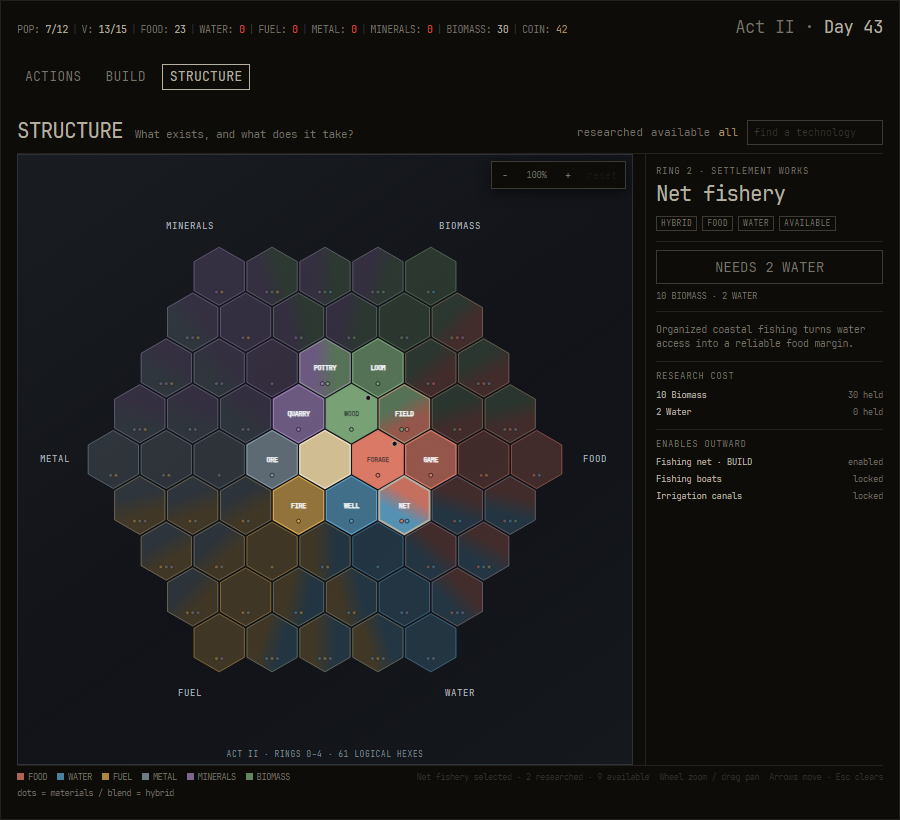
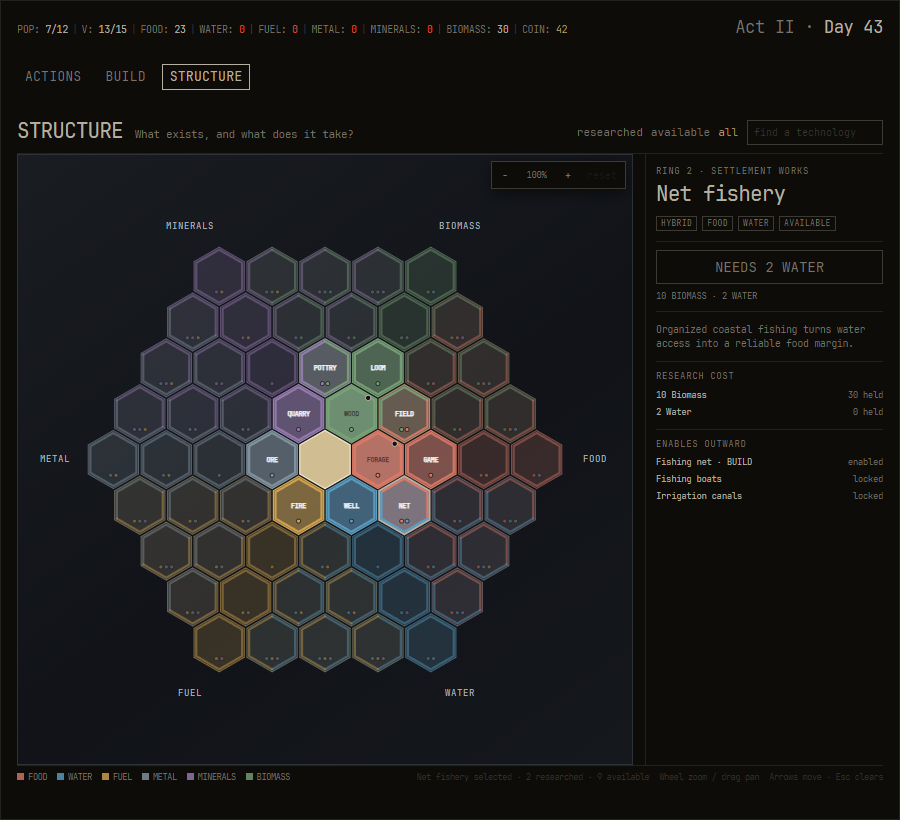
prototype: lock in hex rail design

diff --git a/prototypes/act-ii.html b/prototypes/act-ii.html
@@ -209,14 +209,13 @@
               <div class="structure-title"><h1 id="structure-title">STRUCTURE</h1><p>What exists, and what does it take?</p></div>
               <div class="board-toolbar" aria-label="Research board controls">
                 <div class="control-group" data-board-filter-group><button class="chip" type="button" aria-pressed="false" data-board-filter="researched">researched</button><button class="chip" type="button" aria-pressed="false" aria-label="Available and researched" data-board-filter="available">available</button><button class="chip" type="button" aria-pressed="true" data-board-filter="all">all</button></div>
-                <select class="hybrid-template-select" id="hybrid-template-select" aria-label="Tile rendering template"></select>
                 <input class="search-box" id="board-search" type="search" placeholder="find a technology" aria-label="Find a technology">
               </div>
             </header>
             <div class="structure-layout">
               <div class="board-pane" id="board-pane">
                 <svg class="hex-board" id="structure-board" viewBox="0 0 620 620" role="group" aria-label="Act II research board. Ring zero is a neutral foundation hex; rings one through four contain sixty technologies.">
-                  <defs id="board-defs"></defs><g id="board-camera"><g id="board-tiles"></g><g id="board-labels" aria-hidden="true"></g></g>
+                  <g id="board-camera"><g id="board-tiles"></g><g id="board-labels" aria-hidden="true"></g></g>
                 </svg>
                 <div class="board-view-controls" role="group" aria-label="Board zoom and pan controls"><button class="board-view-button" type="button" data-board-zoom-out aria-label="Zoom out">-</button><output class="board-zoom-level" id="board-zoom-level" aria-label="Board zoom" aria-live="polite">100%</output><button class="board-view-button" type="button" data-board-zoom-in aria-label="Zoom in">+</button><button class="board-view-button reset" type="button" data-board-reset aria-label="Reset board pan and zoom">reset</button></div>
                 <div class="board-tooltip" id="board-tooltip" role="tooltip" hidden></div>
@@ -227,7 +226,7 @@
             </div>
           </section>
           <footer class="structure-footer">
-            <div class="legend-row" aria-label="Resource palette, material-reference dots, and hybrid template"><span><i class="legend-dot" style="color:var(--resource-food)"></i>FOOD</span><span><i class="legend-dot" style="color:var(--resource-water)"></i>WATER</span><span><i class="legend-dot" style="color:var(--resource-fuel)"></i>FUEL</span><span><i class="legend-dot" style="color:var(--resource-metal)"></i>METAL</span><span><i class="legend-dot" style="color:var(--resource-minerals)"></i>MINERALS</span><span><i class="legend-dot" style="color:var(--resource-biomass)"></i>BIOMASS</span><span id="hybrid-template-legend">tiles = rails all</span></div>
+            <div class="legend-row" aria-label="Resource palette and material-reference dots"><span><i class="legend-dot" style="color:var(--resource-food)"></i>FOOD</span><span><i class="legend-dot" style="color:var(--resource-water)"></i>WATER</span><span><i class="legend-dot" style="color:var(--resource-fuel)"></i>FUEL</span><span><i class="legend-dot" style="color:var(--resource-metal)"></i>METAL</span><span><i class="legend-dot" style="color:var(--resource-minerals)"></i>MINERALS</span><span><i class="legend-dot" style="color:var(--resource-biomass)"></i>BIOMASS</span></div>
             <div class="board-hints"><span id="structure-status">Select an available or researched technology</span><span>Wheel zoom / drag pan</span><span>Arrows move · Esc clears</span></div>
           </footer>
         </section>
@@ -568,14 +567,6 @@
       ];
       const eras = { 1: 'CRUDE PRODUCTION', 2: 'SETTLEMENT WORKS', 3: 'CRAFT', 4: 'EARLY INDUSTRIAL' };
       const params = new URLSearchParams(location.search);
-      const hybridTemplates = Object.freeze({
-        'rails-all': Object.freeze({ label: 'rails all', pureBody: 'muted-resource', hybridBody: 'muted-midpoint', pureRails: true, hybridRails: true }),
-        rails: Object.freeze({ label: 'rails', pureBody: 'resource', hybridBody: 'muted-midpoint', pureRails: false, hybridRails: true }),
-        blend: Object.freeze({ label: 'blend', pureBody: 'resource', hybridBody: 'gradient', pureRails: false, hybridRails: false })
-      });
-      const requestedHybridTemplate = params.get('hybrid') || 'rails-all';
-      let activeHybridTemplate = Object.hasOwn(hybridTemplates, requestedHybridTemplate) ? requestedHybridTemplate : 'rails-all';
-
       const definitions = [
         { q: 1, r: 0, name: 'Foraging', short: 'FORAGE', effect: 'Establishes Food gathering at Act II population scale without re-unlocking the personal Forage action.', cost: {}, unlocks: ['Food production'] },
         { q: 0, r: 1, name: 'Spring well', short: 'WELL', effect: 'Establishes local fresh-water production.', cost: { food: 4, biomass: 8 }, unlocks: ['Water production'] },
@@ -643,7 +634,6 @@
       ];
 
       const svg = document.querySelector('#structure-board');
-      const defs = document.querySelector('#board-defs');
       const camera = document.querySelector('#board-camera');
       const tileGroup = document.querySelector('#board-tiles');
       const labelGroup = document.querySelector('#board-labels');
@@ -653,8 +643,6 @@
       const zoomInButton = document.querySelector('[data-board-zoom-in]');
       const resetBoardButton = document.querySelector('[data-board-reset]');
       const zoomLevelOutput = document.querySelector('#board-zoom-level');
-      const hybridTemplateSelect = document.querySelector('#hybrid-template-select');
-      const hybridTemplateLegend = document.querySelector('#hybrid-template-legend');
       const detail = document.querySelector('#structure-detail');
       const statusOutput = document.querySelector('#structure-status');
       const balances = window.prototypeResources;
@@ -868,81 +856,10 @@
         };
       }
 
-      function hybridGradientId(tile) {
-        const encode = value => value < 0 ? `n${Math.abs(value)}` : `p${value}`;
-        return `hybrid-${encode(tile.q)}-${encode(tile.r)}`;
-      }
-
-      function tileFill(tile, templateName = activeHybridTemplate) {
-        const template = hybridTemplates[templateName];
-        if (!template) throw new Error(`Unknown tile template ${templateName}`);
-        const bodyMode = tile.kind === 'pure' ? template.pureBody : template.hybridBody;
-        if (bodyMode === 'resource') return resources[tile.resources[0]].color;
-        if (bodyMode === 'gradient' && tile.kind === 'hybrid') return `url(#${hybridGradientId(tile)})`;
-        if (bodyMode === 'muted-resource' && tile.kind === 'pure') return blendHexColors(resources[tile.resources[0]].color, '#555b63', 0.28);
-        if (bodyMode === 'muted-midpoint' && tile.kind === 'hybrid') {
-          const midpoint = mixHexColors(resources[tile.resources[0]].color, resources[tile.resources[1]].color);
-          return blendHexColors(midpoint, '#555b63', 0.28);
-        }
-        throw new Error(`Unsupported ${tile.kind} body mode ${bodyMode}`);
-      }
-
-      function makeGradients() {
-        tiles.filter(tile => tile.kind === 'hybrid').forEach(tile => {
-          const [firstResource, secondResource] = tile.resources;
-          const radialX = tile.x - center.x;
-          const radialY = tile.y - center.y;
-          const radialLength = Math.hypot(radialX, radialY);
-          const tangentX = -radialY / radialLength;
-          const tangentY = radialX / radialLength;
-          const gradient = node('linearGradient', {
-            id: hybridGradientId(tile),
-            gradientUnits: 'userSpaceOnUse',
-            x1: (tile.x - tangentX * visibleHexSize).toFixed(2),
-            y1: (tile.y - tangentY * visibleHexSize).toFixed(2),
-            x2: (tile.x + tangentX * visibleHexSize).toFixed(2),
-            y2: (tile.y + tangentY * visibleHexSize).toFixed(2),
-            'data-first-resource': resources[firstResource].key,
-            'data-second-resource': resources[secondResource].key
-          });
-          gradient.append(
-            node('stop', { offset: '0%', 'stop-color': resources[firstResource].color }),
-            node('stop', { offset: '32%', 'stop-color': resources[firstResource].color }),
-            node('stop', { offset: '50%', 'stop-color': mixHexColors(resources[firstResource].color, resources[secondResource].color) }),
-            node('stop', { offset: '68%', 'stop-color': resources[secondResource].color }),
-            node('stop', { offset: '100%', 'stop-color': resources[secondResource].color })
-          );
-          defs.append(gradient);
-        });
-      }
-
-      function setHybridTemplate(name, updateUrl = true) {
-        if (!Object.hasOwn(hybridTemplates, name)) return false;
-        activeHybridTemplate = name;
-        svg.dataset.hybridTemplate = name;
-        svg.dataset.hybridRails = String(hybridTemplates[name].hybridRails);
-        svg.dataset.pureRails = String(hybridTemplates[name].pureRails);
-        tiles.filter(tile => tile.shape).forEach(tile => tile.shape.setAttribute('fill', tileFill(tile, name)));
-        hybridTemplateSelect.value = name;
-        hybridTemplateLegend.textContent = `tiles = ${hybridTemplates[name].label}`;
-        if (updateUrl) {
-          const nextUrl = new URL(location.href);
-          nextUrl.searchParams.set('hybrid', name);
-          history.replaceState(null, '', nextUrl);
-        }
-        dispatchEvent(new CustomEvent('prototype-hybrid-template-changed', { detail: { name } }));
-        return true;
-      }
-
-      function setupHybridTemplateControl() {
-        Object.entries(hybridTemplates).forEach(([name, template]) => {
-          const option = document.createElement('option');
-          option.value = name;
-          option.textContent = template.label;
-          hybridTemplateSelect.append(option);
-        });
-        hybridTemplateSelect.addEventListener('change', () => setHybridTemplate(hybridTemplateSelect.value));
-        setHybridTemplate(activeHybridTemplate, false);
+      function tileFill(tile) {
+        if (tile.kind === 'pure') return blendHexColors(resources[tile.resources[0]].color, '#555b63', 0.28);
+        const midpoint = mixHexColors(resources[tile.resources[0]].color, resources[tile.resources[1]].color);
+        return blendHexColors(midpoint, '#555b63', 0.28);
       }
 
       function drawBackdrop() {
@@ -953,9 +870,6 @@
           label.textContent = resources[resource].name.toUpperCase();
           labelGroup.append(label);
         }
-        const rim = node('text', { class: 'rim-label', x: center.x, y: 612 });
-        rim.textContent = 'ACT II · RINGS 0–4 · 61 LOGICAL HEXES';
-        labelGroup.append(rim);
       }
 
       function buildHub() {
@@ -1224,11 +1138,9 @@
         });
       }
 
-      makeGradients();
       drawBackdrop();
       buildHub();
       tiles.forEach(createTechnologyTile);
-      setupHybridTemplateControl();
       updateAllStates();
       syncBuildUnlocks();
       setupBoardCamera();
@@ -1264,10 +1176,7 @@
         zoomBoard,
         panBoard,
         resetBoardView,
-        boardViewState,
-        hybridTemplates,
-        setHybridTemplate,
-        activeHybridTemplate: () => activeHybridTemplate
+        boardViewState
       };
     })();
   </script>

diff --git a/prototypes/prototype.css b/prototypes/prototype.css
@@ -1244,25 +1244,6 @@ button:disabled {
   gap: 9px;
 }
 
-.hybrid-template-select {
-  width: 116px;
-  height: 25px;
-  padding: 2px 5px;
-  border: 1px solid var(--line-2);
-  border-radius: 0;
-  outline: 0;
-  color: var(--dim);
-  background: var(--bg);
-  font-size: 9px;
-  cursor: pointer;
-}
-
-.hybrid-template-select:hover,
-.hybrid-template-select:focus-visible {
-  border-color: var(--dim);
-  color: var(--fg);
-}
-
 .search-box {
   width: 136px;
   height: 25px;
@@ -1357,18 +1338,12 @@ button:disabled {
   text-align: center;
 }
 
-.sector-label,
-.rim-label {
+.sector-label {
   fill: #abb0b8;
   font: 9px var(--font);
   letter-spacing: 0.075em;
   pointer-events: none;
   text-anchor: middle;
-}
-
-.rim-label {
-  fill: #7f858e;
-  font-size: 8px;
 }
 
 .hex-tile {
@@ -1465,7 +1440,7 @@ button:disabled {
 }
 
 .resource-rail {
-  display: none;
+  display: inline;
   fill: none;
   stroke-width: 2.2;
   stroke-linecap: round;
@@ -1474,11 +1449,6 @@ button:disabled {
   pointer-events: none;
   vector-effect: non-scaling-stroke;
   transition: opacity 110ms linear;
-}
-
-.hex-board[data-hybrid-rails="true"] .hybrid-rail,
-.hex-board[data-pure-rails="true"] .pure-rail {
-  display: inline;
 }
 
 .tech-tile.locked .resource-rail {
@@ -1929,10 +1899,6 @@ button:disabled {
   .board-toolbar {
     justify-content: flex-start;
     overflow-x: auto;
-  }
-
-  .hybrid-template-select {
-    width: 104px;
   }
 
   .search-box {

diff --git a/docs/hex_tech_board_spec.md b/docs/hex_tech_board_spec.md
@@ -149,21 +149,9 @@ Each technology hex has exactly one progression state:
 |**Available**|Resource color at inviting mid-high opacity (~66%); label visible; interactive; subtle pulse optional|
 |**Researched**|Resource color at full opacity; label visible; interactive for inspection; thin dark outline in the same color family|
 
-Pure hexes use a solid fill. Hybrid rendering is selected through a named visual template; templates must not alter technology identity, progression state, selection, filtering, camera state, costs, or material dots.
+Pure and hybrid technologies use one fixed rail treatment. Pure bodies use their resource color toned toward neutral; hybrid bodies use the similarly toned midpoint of their two resource colors. Every pure technology receives one inset closed rail covering all six edges in its resource color. Every hybrid receives two rails: each domain resource owns exactly three contiguous edges by nearest radial resource direction, and the pair partitions all six edges without overlap. This is the chosen game presentation, not a runtime template: do not expose a rendering selector, query parameter, legend label, or public switching API. Ring 0 stays neutral and has no rail.
 
-|Template id|Body|Resource treatment|Purpose|
-|-|-|-|-|
-|`rails-all` (default)|Muted resource body for pure; muted midpoint for hybrid|One full six-edge pure rail; two three-edge hybrid rails|Consistent rail language across every technology tile|
-|`rails`|Solid resource body for pure; muted midpoint for hybrid|No pure rail; two three-edge hybrid rails|Hybrid-only rail comparison|
-|`blend`|Solid resource body for pure; smooth two-color hybrid gradient|No rails|Retained comparison baseline|
-
-In `rails-all`, every pure technology receives one inset closed rail covering all six edges in its resource color. Every hybrid retains two rails: each domain resource owns exactly three contiguous edges by nearest radial resource direction, and the pair partitions all six edges without overlap. Pure bodies are toned toward neutral so a same-color rail remains legible; hybrid bodies use the toned resource midpoint. Ring 0 stays neutral and has no rail.
-
-The `rails` template preserves full-color pure bodies without pure rails while keeping the same hybrid body and split rails. The `blend` template preserves full-color pure bodies and tile-specific hybrid gradients; each gradient's local tangent makes its midpoint seam radial to the board center, with endpoint colors held through `32%`/`68%`.
-
-Populate the STRUCTURE toolbar selector from the template registry. `?hybrid=rails-all`, `?hybrid=rails`, and `?hybrid=blend` select shareable initial states. `window.prototypeBoard.setHybridTemplate(id)` switches existing nodes in place, and `activeHybridTemplate()` reports the current id. Adding a future option should extend the registry and its SVG/CSS treatment rather than replace another template.
-
-The `HYBRID` detail tag and tooltip remain textual cues in every template. Every technology tile carries compact material-reference dots near its lower edge. These are an at-a-glance composition cue, not a replacement for the complete authored cost shown in the detail pane. Domain resources appear first; when an advanced tile needs another dot, use the first distinct resource in its authored research cost:
+The `HYBRID` detail tag and tooltip remain textual cues. Every technology tile carries compact material-reference dots near its lower edge. These are an at-a-glance composition cue, not a replacement for the complete authored cost shown in the detail pane. Domain resources appear first; when an advanced tile needs another dot, use the first distinct resource in its authored research cost:
 
 |Ring|Pure tile dots|Hybrid tile dots|
 |-|-|-|
@@ -172,7 +160,7 @@ The `HYBRID` detail tag and tooltip remain textual cues in every template. Every
 |3|2|2|
 |4|2|3|
 
-Use this equal-lightness resource palette so pure fills, hybrid rails, dots, and retained blend gradients remain distinct without harsh luminance seams:
+Use this equal-lightness resource palette so muted bodies, resource rails, and dots remain distinct without harsh luminance seams:
 
 |Resource|Color|
 |-|-|
@@ -183,7 +171,7 @@ Use this equal-lightness resource palette so pure fills, hybrid rails, dots, and
 |Minerals|`#9A7CB4` violet|
 |Biomass|`#78A276` green|
 
-Do not place the board on a full circular or six-wedge backdrop, and do not draw dashed stage-circle guides. Do not render `R0` or `R1`-`R4` text overlays on the board; keep the six perimeter resource labels and bottom board summary. Resource families remain legible through brighter tile fills, the neutral ring-0 foundation, material dots, perimeter labels, and hybrid blends. Use a neutral-cool charcoal board surface so the palette remains clean without abandoning the terminal frame.
+Do not place the board on a full circular or six-wedge backdrop, and do not draw dashed stage-circle guides. Do not render `R0`, `R1`-`R4`, or a bottom board summary; keep only the six perimeter resource labels. Resource families remain legible through muted bodies, resource rails, the neutral ring-0 foundation, material dots, and perimeter labels. Use a neutral-cool charcoal board surface so the palette remains clean without abandoning the terminal frame.
 
 At Act II entry, Foraging and Woodcutting are Researched; the other four ring-1 tiles are Available. Affordability does not create another tile state. An Available technology that the settlement cannot currently afford remains Available; its detail action communicates the deficit.
 
@@ -415,12 +403,9 @@ Hybrid (`k = 1..3`, low `k` nearer the first resource):
 - Ring `n` has exactly 6 pure and `6(n - 1)` hybrid hexes.
 - The complete Act II board is rings 0–4 and contains exactly 61 logical hexes; it exposes no placeholder rings for Act III.
 - Hybrid identity comes from exact axial coordinates, not screen-angle rounding.
-- Hybrid templates are switchable through the generated toolbar selector, `?hybrid=<id>`, and the public board API without rebuilding tiles or changing progression/camera state.
-- `rails-all` is the default: 24 pure technologies each have one full six-edge rail, while 36 hybrids each have two three-edge rails, for 96 resource-rail paths total; R0 has none.
-- `rails` keeps only the 72 hybrid rail paths visible and restores unmuted pure bodies.
-- `blend` hides all rails, restores unmuted pure bodies, and gives all 36 hybrids their unique tangent gradients with `32%`/`68%` held endpoints and radial midpoint seams.
+- The fixed rail treatment gives 24 pure technologies one full six-edge rail each and 36 hybrids two three-edge rails each, for 96 resource-rail paths total; R0 has none.
 - Material-reference markers follow the exact count table: ring 1 = 6 dots total, ring 2 = 18, ring 3 = 36, and ring 4 = 66; pure ring-3/ring-4 tiles have two, while ring-4 hybrids have three.
-- Dashed stage-circle guides and `R0`/`R1`-`R4` board overlays are absent; perimeter resource labels and the bottom board summary remain.
+- Dashed stage-circle guides, `R0`/`R1`-`R4` board overlays, and the bottom board summary are absent; only perimeter resource labels remain.
 
 ### Progression and interaction
 
